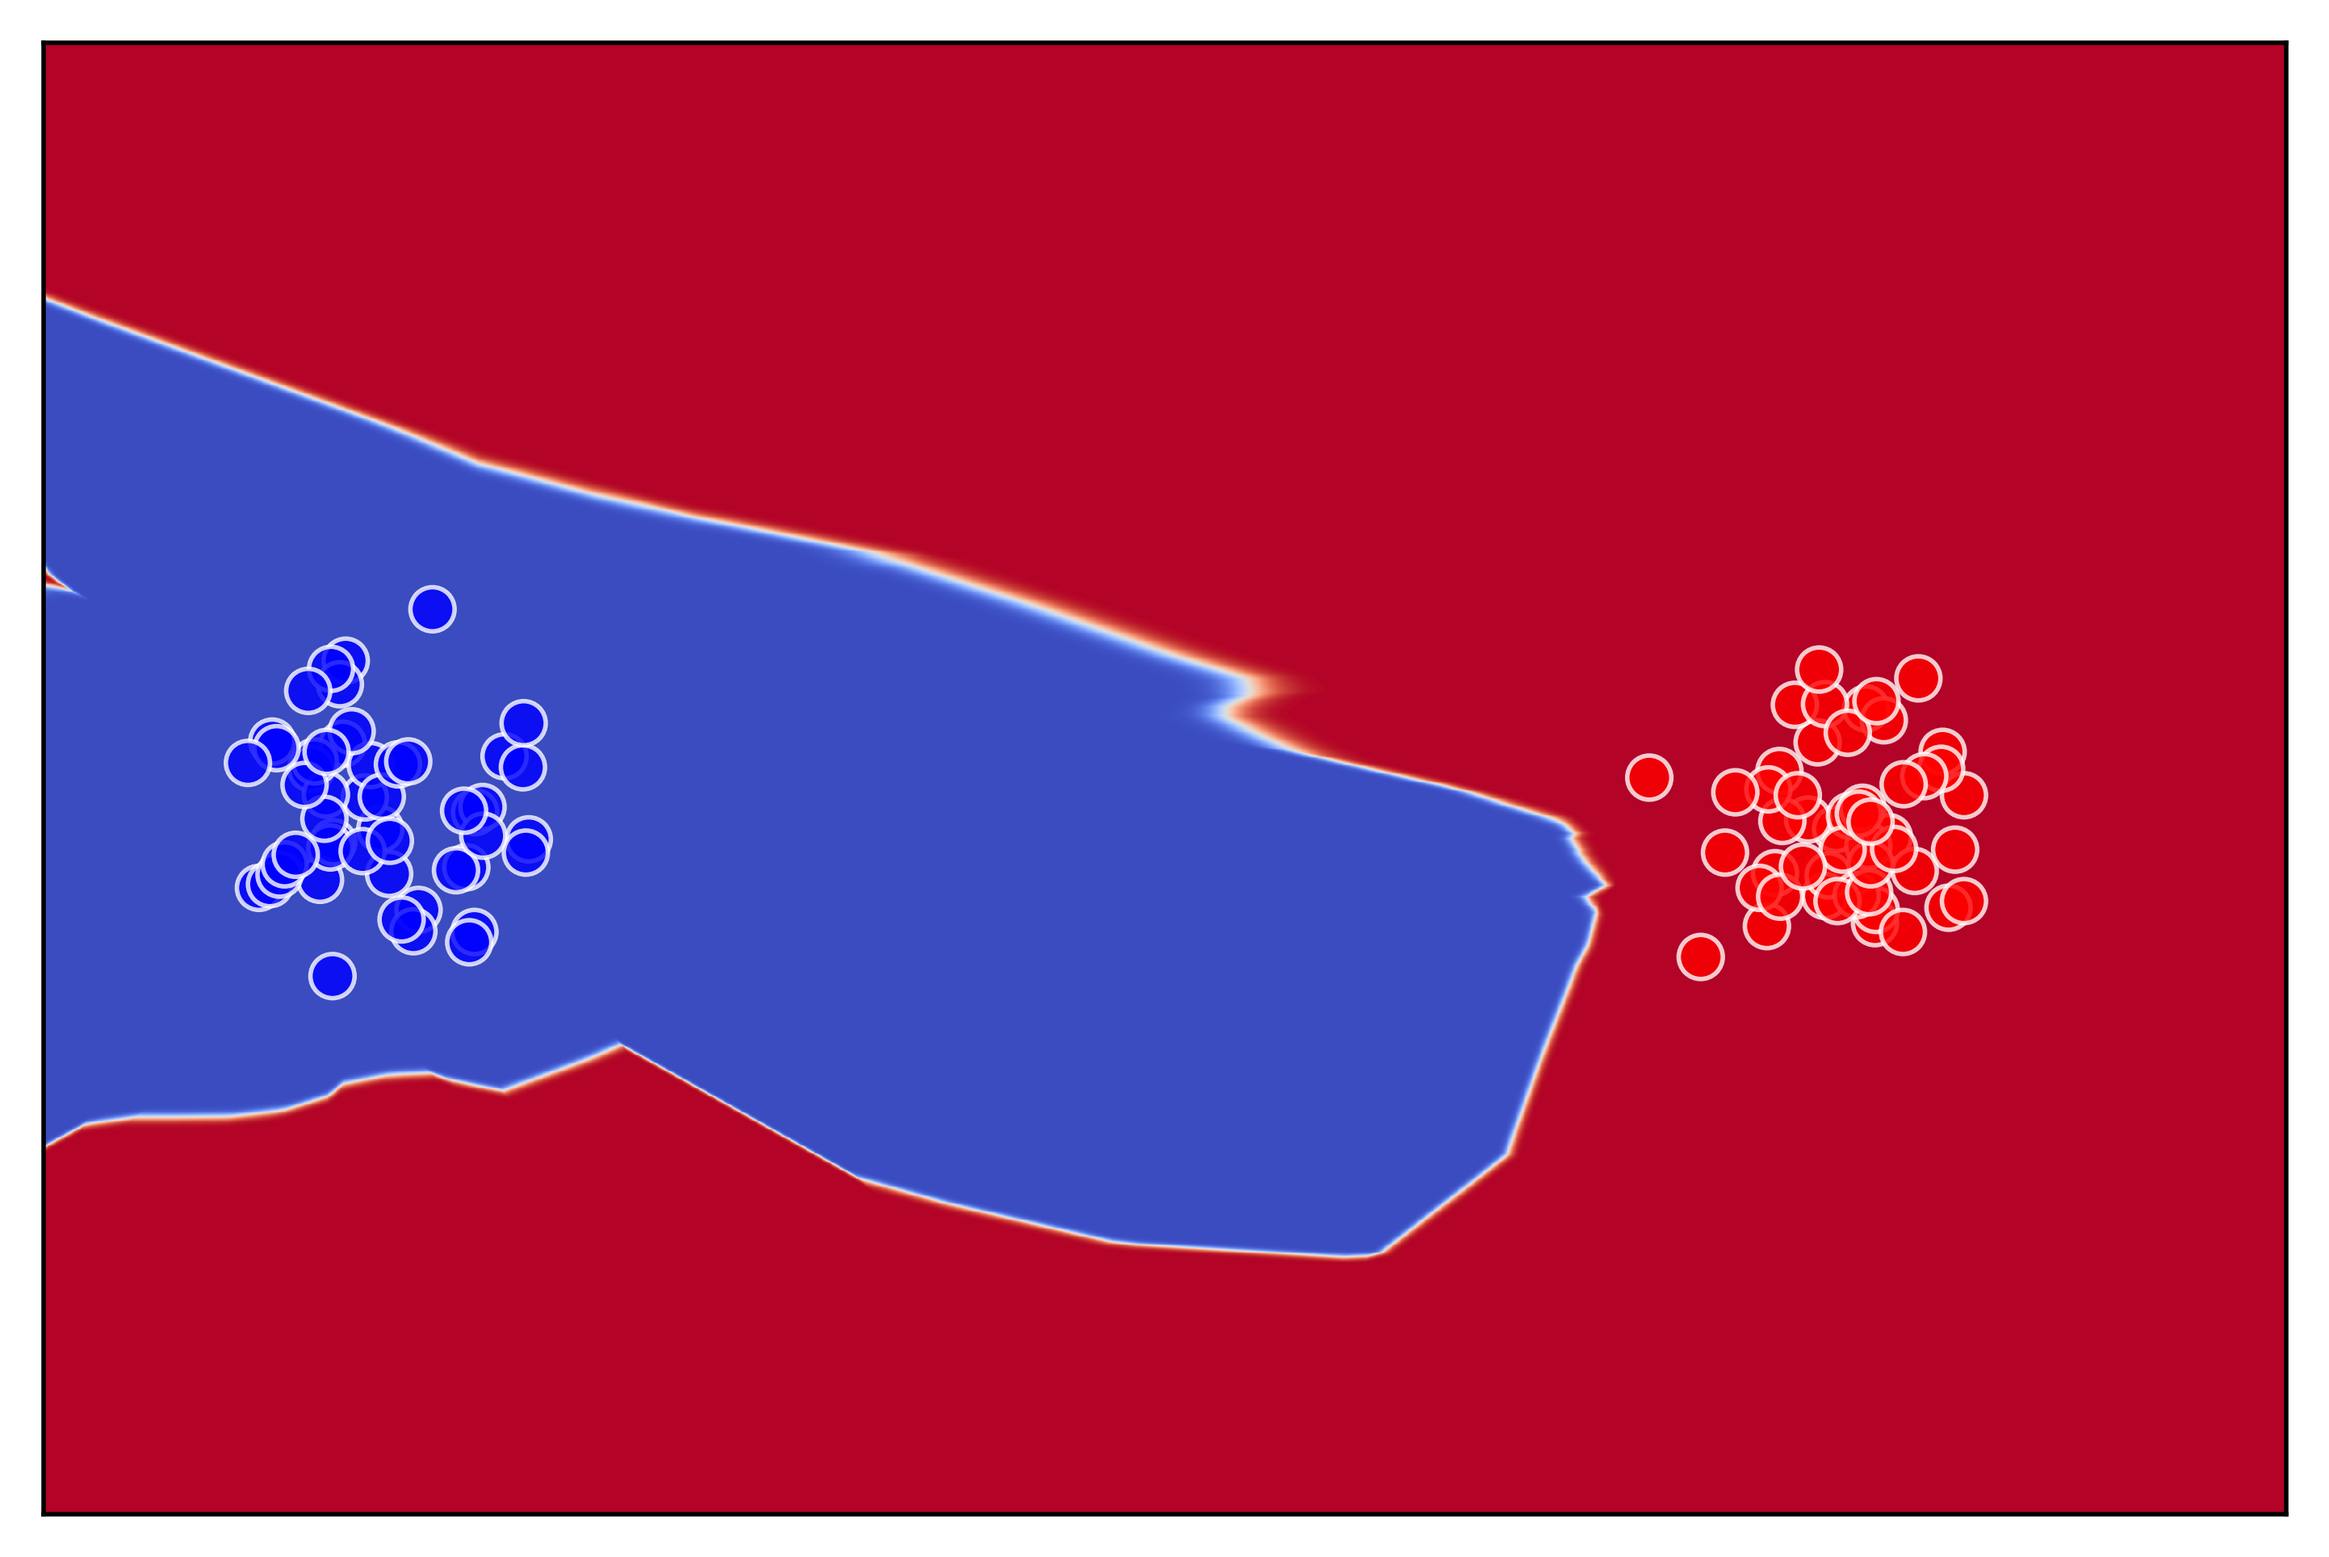
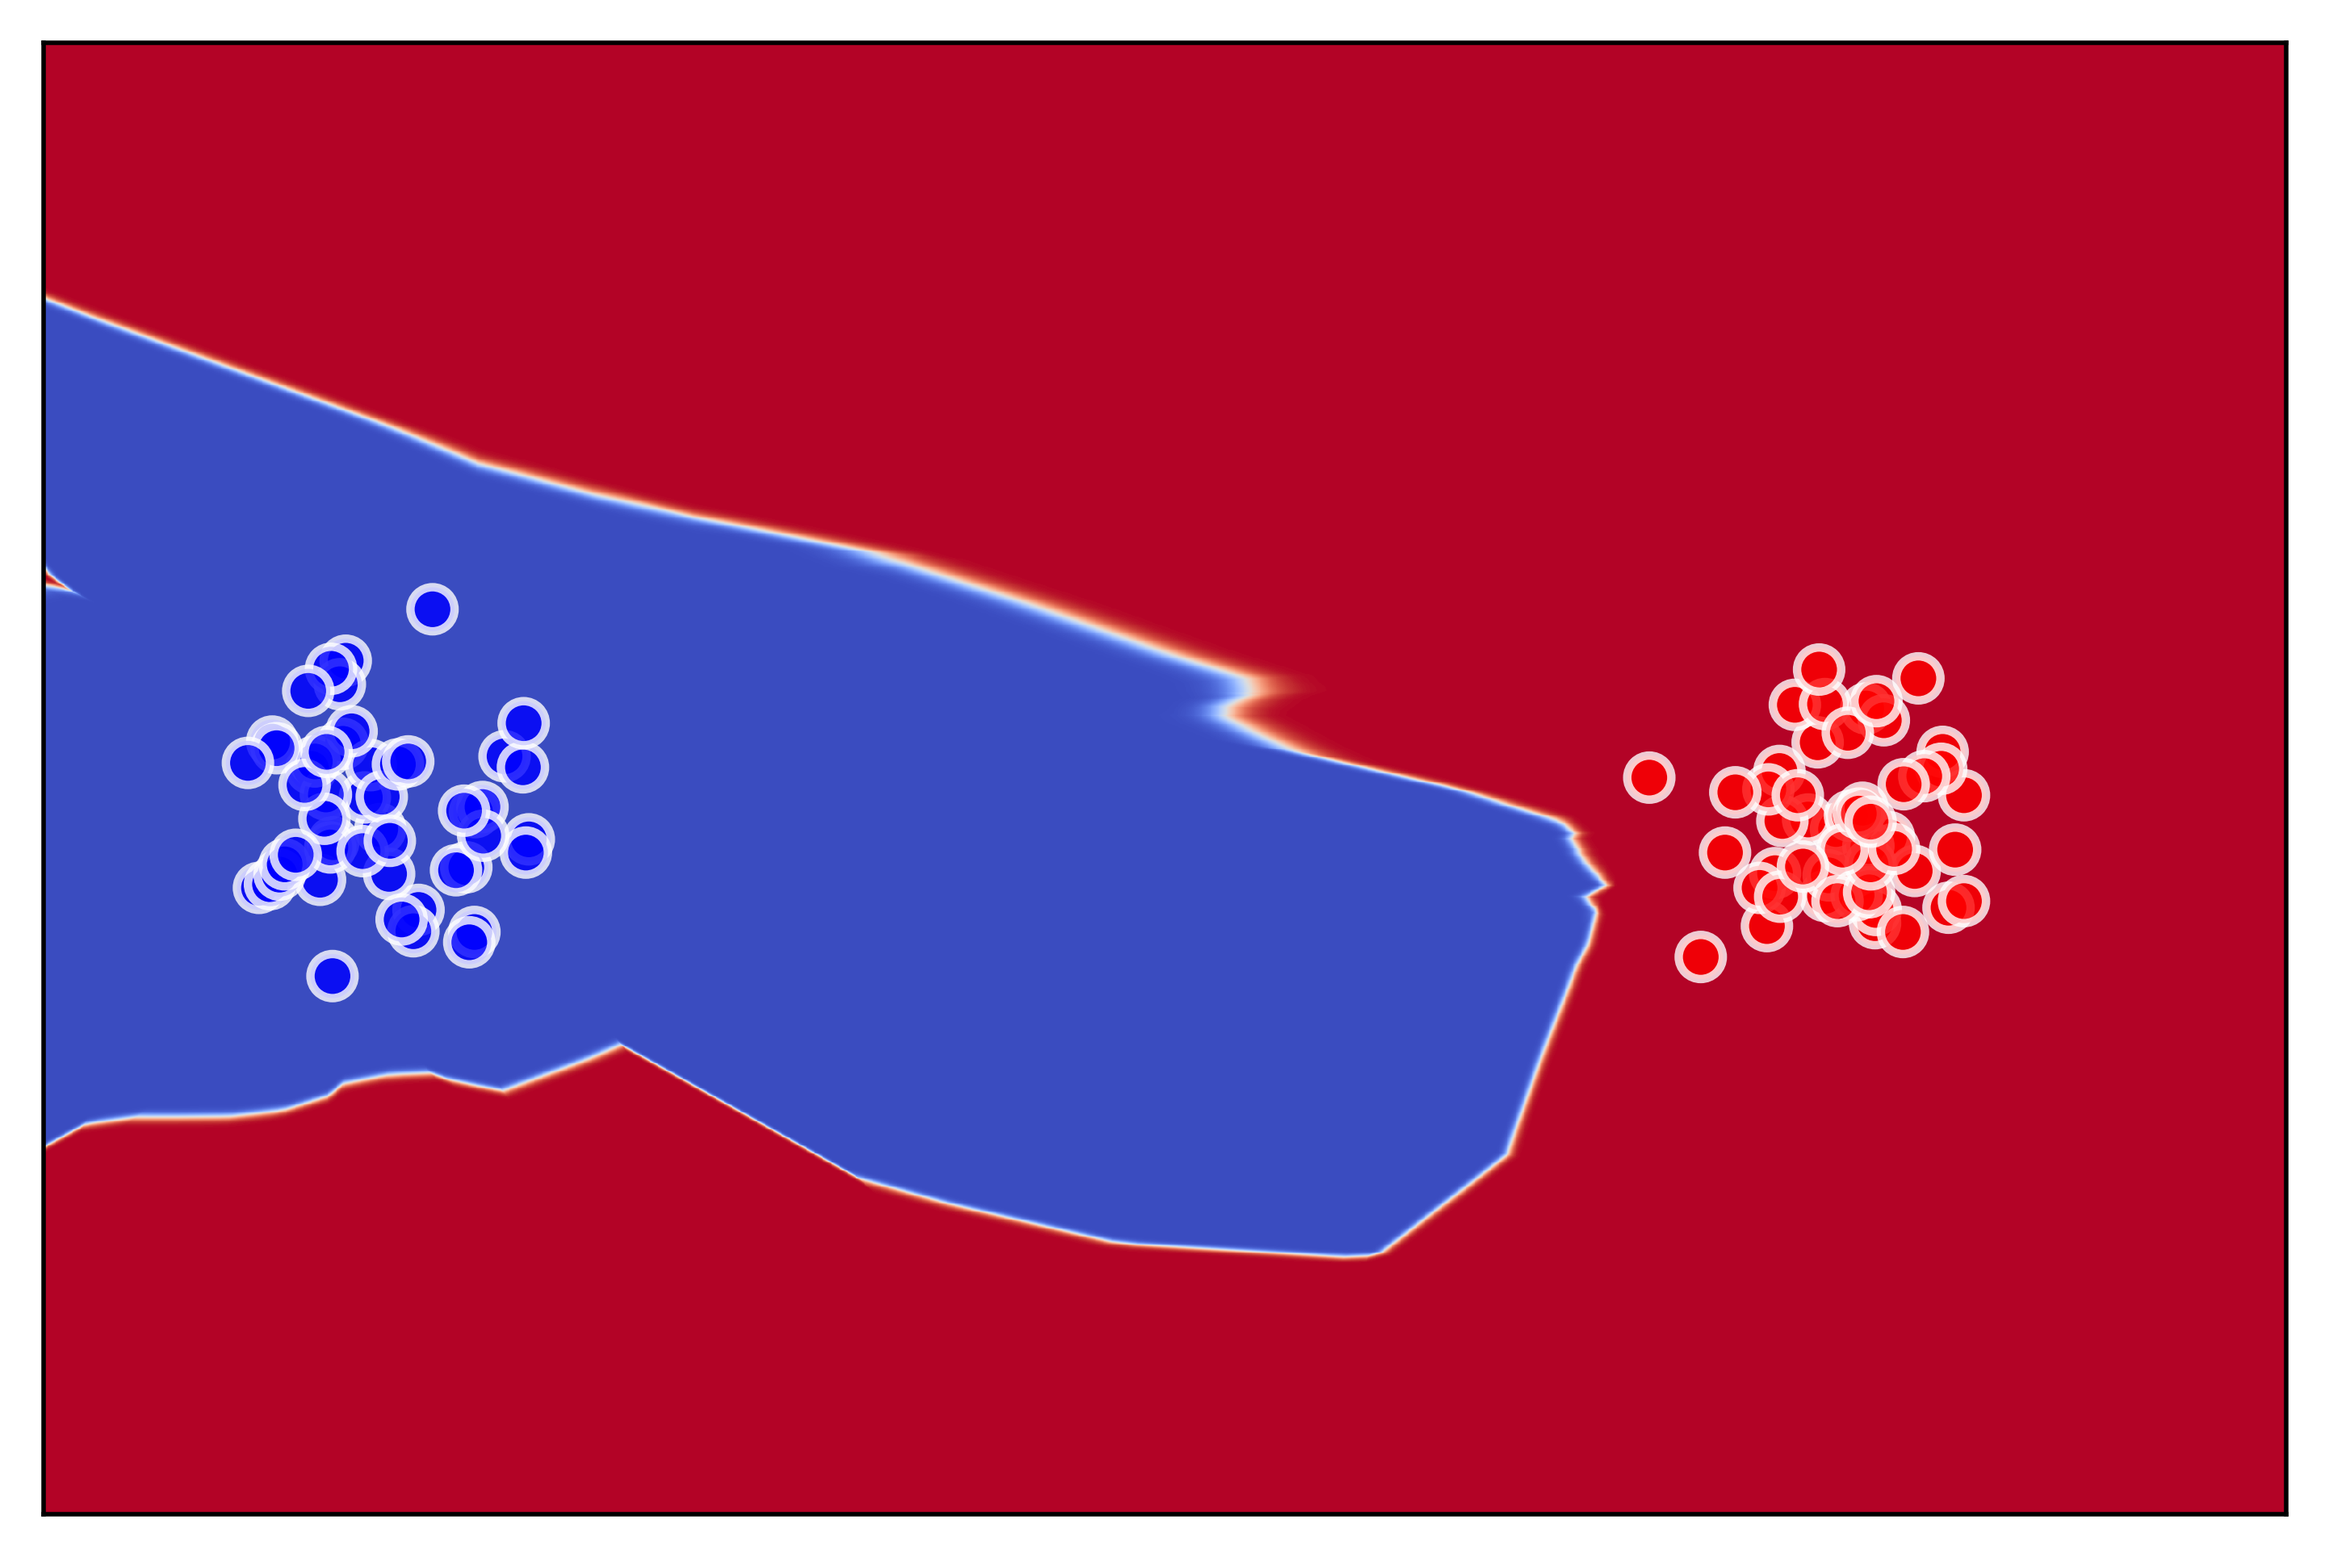
Add model saver

Changed region(s): [[0.0936, 0.4044, 0.2496, 0.6221], [0.7175, 0.4355, 0.8735, 0.6221], [0.1248, 0.6221, 0.156, 0.6532]]

diff --git a/model/plotting.py b/model/plotting.py
@@ -79,9 +79,9 @@ def plot_decision_boundary(model, X_, Y_, epoch, mode):
             if j < x[1]:
                 break
         if y == 0:
-            ax.add_patch(Circle((col_idx, row_idx), 30, fill=True, facecolor='b', edgecolor='w', linewidth=0.8, alpha=0.8))
+            ax.add_patch(Circle((col_idx, row_idx), 30, fill=True, facecolor='b', edgecolor='w', linewidth=1.5, alpha=0.8))
         else:
-            ax.add_patch(Circle((col_idx, row_idx), 30, fill=True, facecolor='r', edgecolor='w', linewidth=0.8, alpha=0.8))
+            ax.add_patch(Circle((col_idx, row_idx), 30, fill=True, facecolor='r', edgecolor='w', linewidth=1.5, alpha=0.8))
 
     im = ax.imshow(colors, cmap='coolwarm')
 

diff --git a/src_c07/main.py b/src_c07/main.py
@@ -118,6 +118,9 @@ if __name__ == '__main__':
     criterion = nn.BCELoss(reduce=False)
     train(model, train_data, train_label, test_data, test_label, criterion, interval=10)
 
+    with open('main_model.pt', 'wb') as f_:
+        torch.save(model.state_dict(), f_)
+
     f = open('../output/{}/model_weight.out'.format(mode), 'w')
     f.write(model.__str__())
     f.write('\n')

diff --git a/src_a00/main.py b/src_a00/main.py
@@ -117,6 +117,9 @@ if __name__ == '__main__':
     criterion = nn.BCELoss(reduce=False)
     train(model, train_data, train_label, test_data, test_label, criterion)
 
+    with open('main_model.pt', 'wb') as f_:
+        torch.save(model.state_dict(), f_)
+
     f = open('../output/{}/model_weight.out'.format(mode), 'w')
     f.write(model.__str__())
     f.write('\n')

diff --git a/src_b00/main.py b/src_b00/main.py
@@ -118,6 +118,9 @@ if __name__ == '__main__':
     criterion = nn.BCELoss(reduce=False)
     train(model, train_data, train_label, test_data, test_label, criterion)
 
+    with open('main_model.pt', 'wb') as f_:
+        torch.save(model.state_dict(), f_)
+
     f = open('../output/{}/model_weight.out'.format(mode), 'w')
     f.write(model.__str__())
     f.write('\n')
